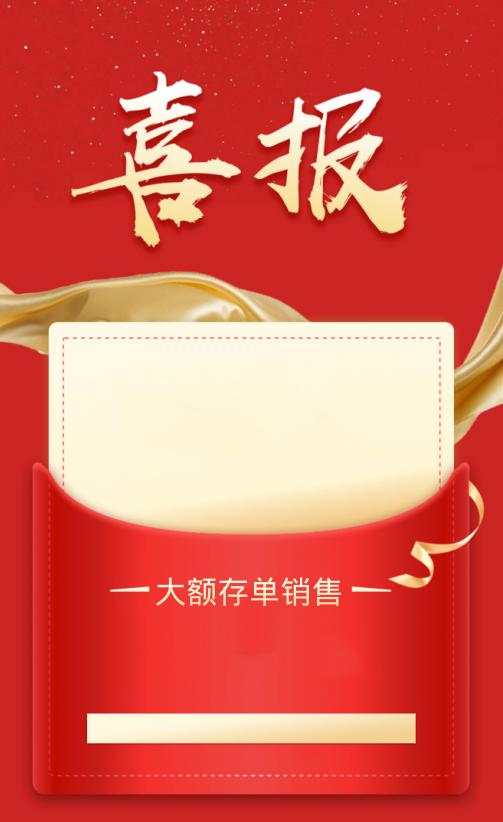
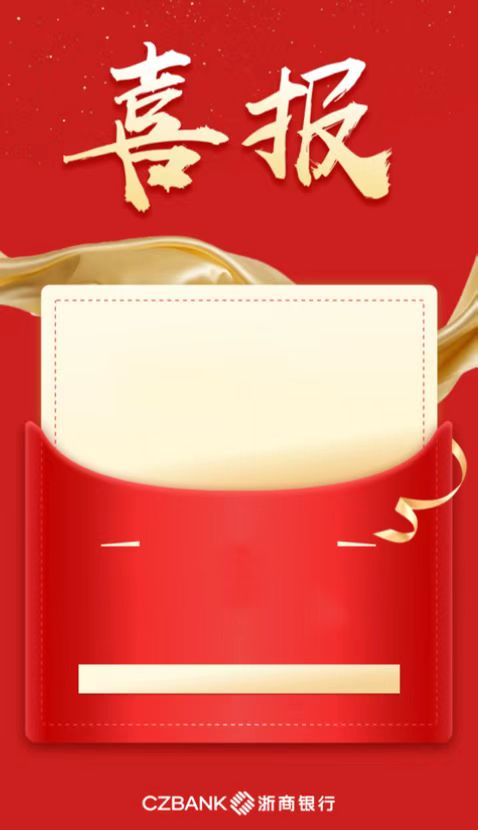
pending

diff --git a/app/models/czbank_xibao.rb b/app/models/czbank_xibao.rb
@@ -46,21 +46,26 @@ class CzbankXibao < ApplicationRecord
     canvas.composite!(template, 0, 0, Magick::CopyCompositeOp) # 铺上模板图层
     text = Magick::Draw.new # 初始化文本格式
     text.font_family = 'Source Han Sans SC'
+    text.font_weight = Magick::BoldWeight
     puts "SET PARAMS: #{options.to_json}"
-    text.annotate(canvas, 0, 0, 240 - options[:org_name].length * 23, 430, options[:org_name]) do
+    text.annotate(canvas, 0, 0, 234 - options[:org_name].length * 24, 370, options[:org_name]) do
       self.pointsize = 50
       self.fill = '#CD1D1D'
     end
-    text.annotate(canvas, 0, 0, 240 - options[:staff_name].length * 23, 500, options[:staff_name]) do
+    text.annotate(canvas, 0, 0, 234 - options[:staff_name].length * 24, 445, options[:staff_name]) do
       self.pointsize = 50
       self.fill = '#CD1D1D'
     end
-    text.annotate(canvas, 0, 0, 180, 570, options[:trans_date]) do
+    text.annotate(canvas, 0, 0, 160, 523, options[:trans_date]) do
       self.pointsize = 20
       self.fill = '#FFF9E1'
     end
-    text.annotate(canvas, 0, 0, 180, 690, options[:sale_value]) do
-      self.pointsize = 70
+    text.annotate(canvas, 0, 0, 180, 550, '大额存单销售') do
+      self.pointsize = 20
+      self.fill = '#FFF9E1'
+    end
+    text.annotate(canvas, 0, 0, 160, 640, options[:sale_value]) do
+      self.pointsize = 80
       self.fill = '#FFF9E1'
     end
     canvas.write(save_file)
